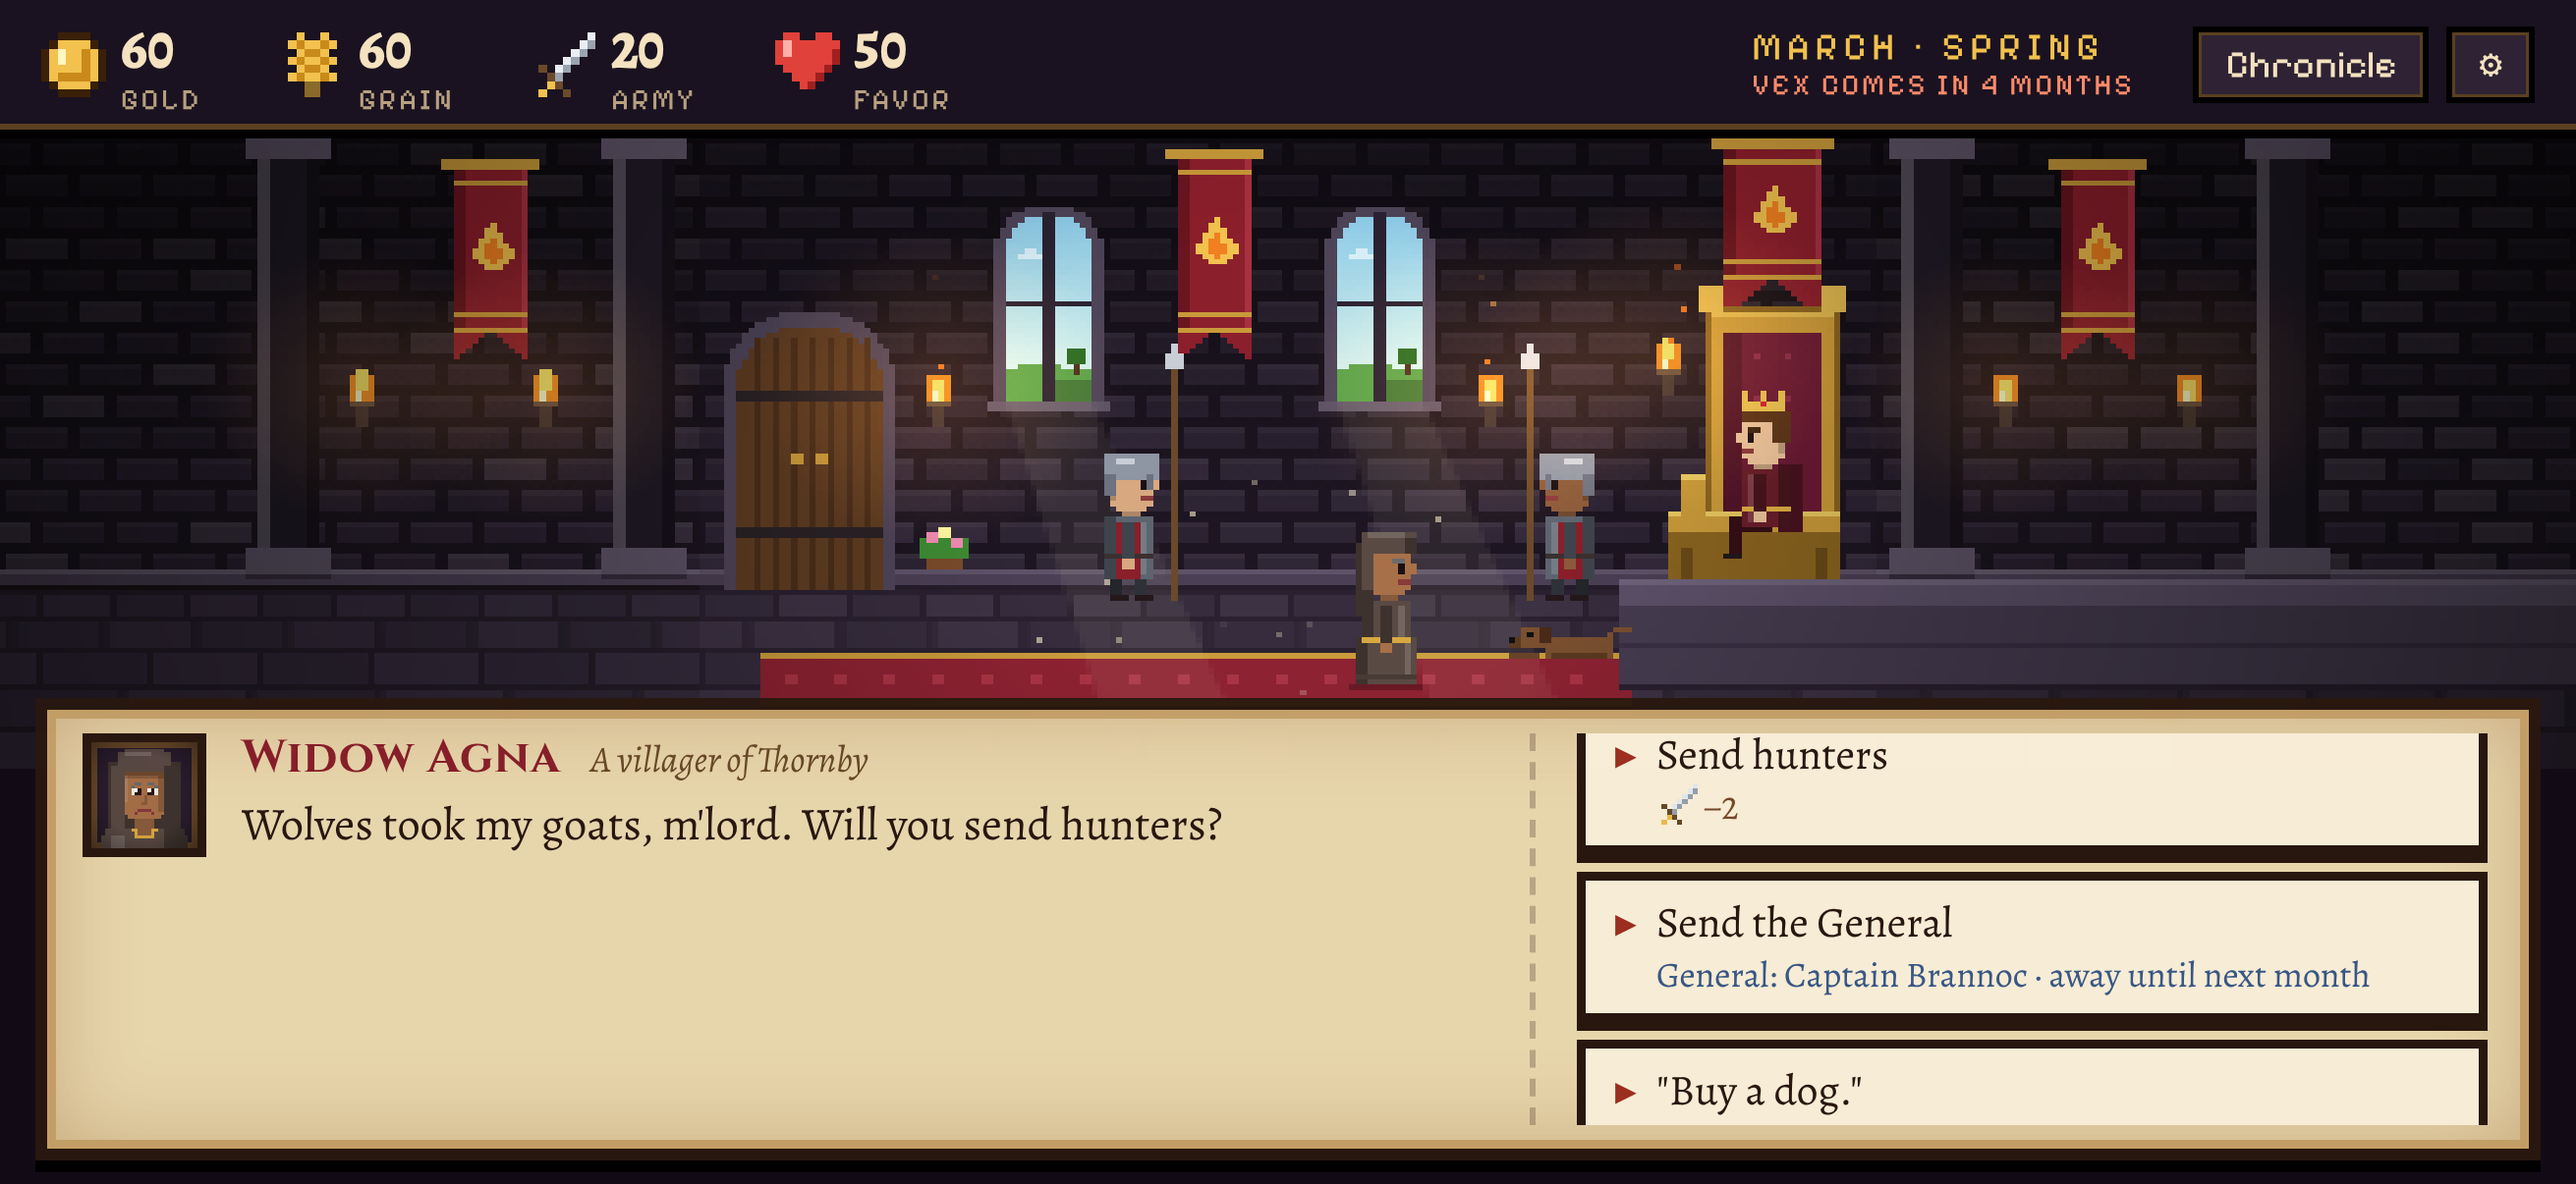
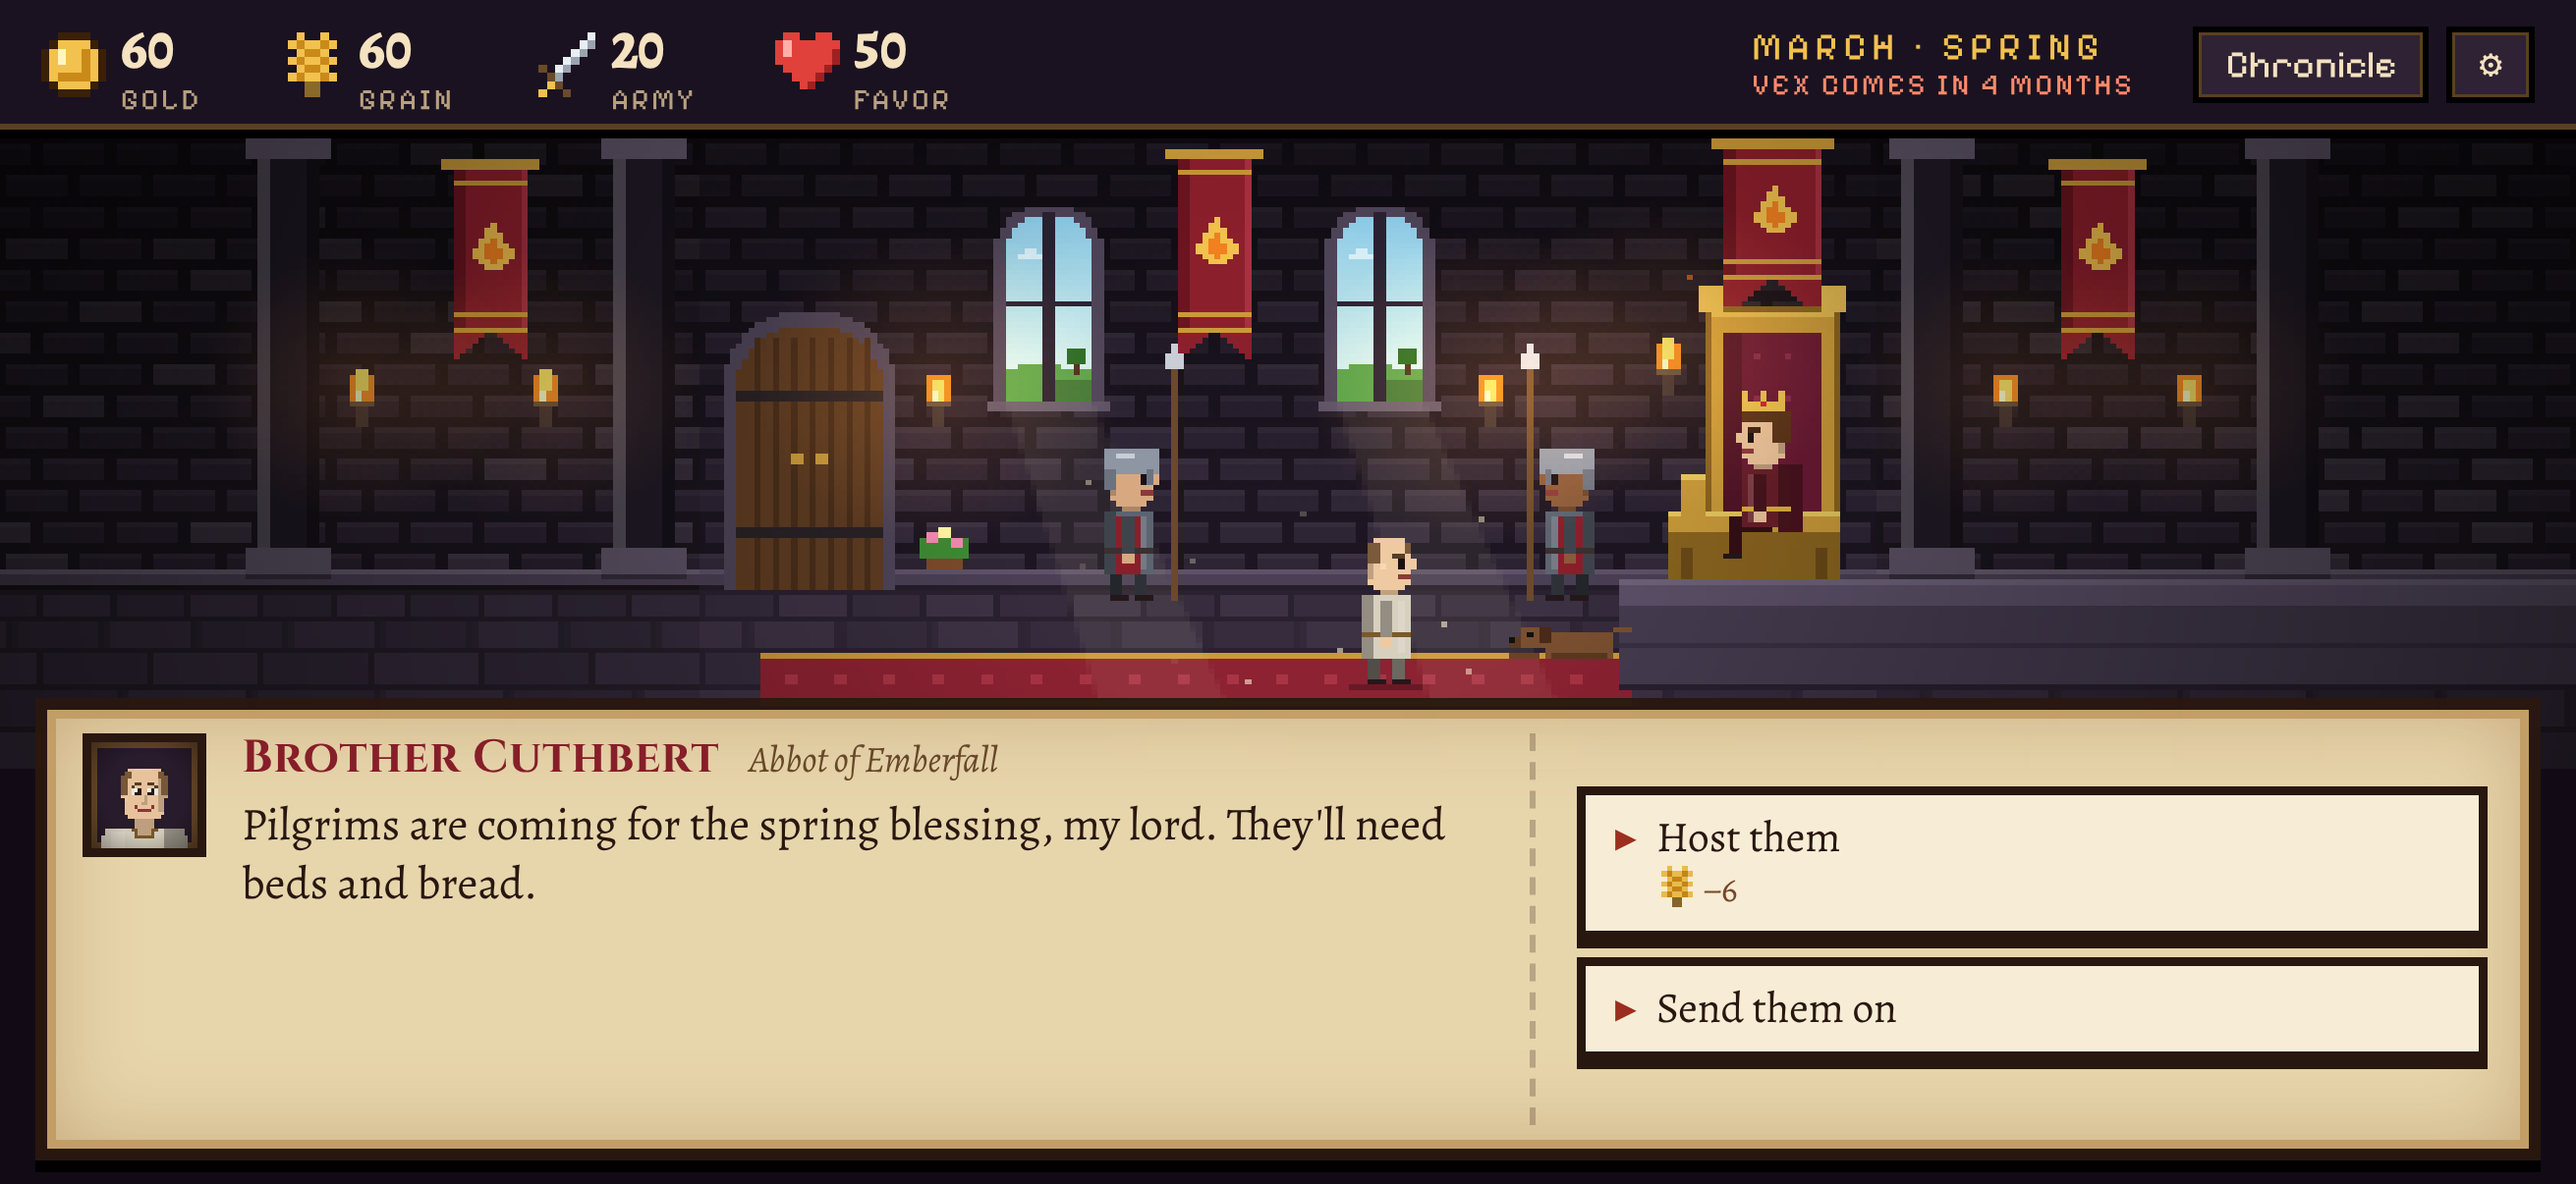
Landscape title and story screens use the full screen; price only at unlock
- Title: the castle scene fills the screen, logo at the top, the menu in
  a row along the bottom. The price is no longer shown on the title; it
  appears only in Settings and on the end-of-spring unlock screen.
- Battle, aftermath, council, endings and the unlock screen: the scene
  fills the screen with the text in a box over it; the reign numbers sit
  in one row and the buttons side by side.

Claude-Session: https://claude.ai/code/session_01SERTLs5Dns9P29i9CurPML

diff --git a/index.html b/index.html
@@ -176,6 +176,27 @@ img.px{image-rendering:pixelated}
  #txt{font-size:15.5px;line-height:1.28;margin-top:4px}
  .ch{font-size:14.5px;padding:6px 8px 6px 24px}#choices{gap:6px}
 }
+@media (orientation:landscape) and (min-aspect-ratio:5/4){
+ /* title: the castle fills the screen, logo on top, the menu along the bottom */
+ #overlay.ts,#overlay.fb{display:block;overflow:hidden}
+ #overlay.ts .cwrap,#overlay.fb .cwrap{position:absolute;inset:0;padding:0;display:flex;align-items:center;justify-content:center;overflow:hidden}
+ #overlay.ts #castle,#overlay.fb #castle{width:max(100%,calc(100dvh * 4 / 3));height:auto;flex:none}
+ #overlay.ts .logo{top:max(5%,env(safe-area-inset-top))}
+ #overlay.ts .logo h1{font-size:min(9vw,76px)}#overlay.ts .logo h2{font-size:20px}
+ #overlay.ts .ovb{position:absolute;left:0;right:0;bottom:0;height:auto;overflow:visible;flex-direction:row;flex-wrap:wrap;justify-content:center;align-items:center;gap:6px 12px;
+  padding:40px max(18px,env(safe-area-inset-right)) calc(env(safe-area-inset-bottom) + 16px) max(18px,env(safe-area-inset-left));background:linear-gradient(rgba(5,3,8,0),rgba(5,3,8,.85) 45%)}
+ #overlay.ts .ovb p.dim{flex-basis:100%;margin:0 0 4px;font-size:15px;opacity:.85;text-shadow:0 2px 0 #000}
+ #overlay.ts .pb{min-width:0;margin:0;padding:10px 18px}
+ /* story screens: the scene fills the screen, the text sits in a box over it */
+ #overlay.fb .ovb{position:absolute;top:50%;left:50%;transform:translate(-50%,-50%);width:min(560px,86vw);height:auto;max-height:88%;overflow-y:auto;
+  background:rgba(14,9,18,.86);border:3px solid #000;box-shadow:inset 0 0 0 2px #5a4020,0 10px 40px rgba(0,0,0,.6);padding:16px 22px 18px;animation:none}
+ #overlay.fb .ovb{width:min(780px,92vw);flex-direction:row;flex-wrap:wrap;justify-content:center;align-content:flex-start;gap:0 10px;padding:12px 20px 14px}
+ #overlay.fb .ovb>*{flex-basis:100%}#overlay.fb .ovb>.pb{flex-basis:auto;min-width:0;margin:6px 0 0;padding:9px 16px}
+ #overlay.fb .ovb h3{margin:2px 0 6px}#overlay.fb .ovb p{font-size:15.5px;margin:4px auto;max-width:640px}
+ #overlay.fb .ovb{max-height:95%}#overlay.fb .ovb>.dim{font-size:13px;margin:0}#overlay.fb .nums div{padding:5px 3px}#overlay.fb .nums{grid-template-columns:repeat(6,1fr);gap:6px}#overlay.fb .nums b{font-size:20px}#overlay.fb .nums small{font-size:11.5px}
+ #overlay.fb .summary h3.sm{font-size:16px;margin:8px 0 4px}#overlay.fb .summary ul{columns:2;column-gap:24px;font-size:14px;margin:4px 0}
+ #overlay.fb .summary{max-width:none}
+}
 </style>
 </head>
 <body>
@@ -1678,7 +1699,7 @@ async function restoreFull(after){const np=nativeStore();
  const own=await storeCheck();toast(own||PRO?"Purchase restored! The full year is unlocked.":"No purchase found for this Apple ID.");if(own)after&&after()}
 function paywall(after){
  setCastle("map");SFX.toll();
- overlay(`${castleHTML()}</div><div class="ovb"><div class="dim">— THE END OF SPRING —</div><h3>Vex's banners are coming</h3>
+ overlay(`${castleHTML()}</div><div class="ovb ending"><div class="dim">— THE END OF SPRING —</div><h3>Vex's banners are coming</h3>
   <p>Spring is over. Scouts report Baron Vex's army on the march, Brannoc is sharpening his blades, and Emberfall's first summer is about to begin.</p>
   <p>Unlock the full year to play on: the July battle, the harvest, a rival for your throne, the King's war, winter, the Midwinter Council, and all 19 endings.</p>
   <button class="pb" id="buyBtn">Unlock the full year · ${STORE.price}</button>
@@ -1804,7 +1825,7 @@ function ending(k){
   <p class="dim">Endings discovered: ${got.length} / ${Object.keys(ENDINGS).length}</p>
   <button class="pb" onclick="newGame()">Begin a New Reign</button><button class="pb alt" onclick="openChron()">Read the Chronicle</button><button class="pb alt" onclick="showTitle()">Title Screen</button></div>`);
  return true}
-function overlay(h){const o=$("overlay");o.innerHTML=h;o.style.display="flex";o.scrollTop=0}
+function overlay(h){const o=$("overlay");o.className=/class="logo"/.test(h)?"ts":/class="ovb (siege|ending)/.test(h)?"fb":"";o.innerHTML=h;o.style.display="flex";o.scrollTop=0}
 function closeOverlay(){$("overlay").style.display="none";$("overlay").innerHTML=""}
 function modal(h){const m=$("modal");m.innerHTML=`<div class="box">${h}</div>`;m.style.display="flex"}
 function closeModal(){const m=$("modal");m.style.display="none";m.innerHTML=""}
@@ -1831,7 +1852,6 @@ function showTitle(){
  setCastle("title");Music.play("title");
  overlay(`${castleHTML()}<div class="logo"><h1>EMBERFALL</h1><h2>MY LORD</h2></div></div><div class="ovb">
   <p class="dim">The throne is yours. So is everything that follows.</p>
-  ${PRO?"":`<p class="dim" style="font-size:14px;margin-top:-4px">Spring is free. Unlock the full year for ${STORE.price}.</p>`}
   ${hasSave?'<button class="pb" onclick="cont()">Continue Reign</button>':""}<button class="pb ${hasSave?"alt":""}" onclick="${hasSave?"confirmNew()":"newGame()"}">New Reign</button>
   <button class="pb alt" onclick="openEndings()">Endings (${gotEndings().length}/${Object.keys(ENDINGS).length})</button>
   <button class="pb alt" onclick="openSettings()">Settings</button></div>`)}
